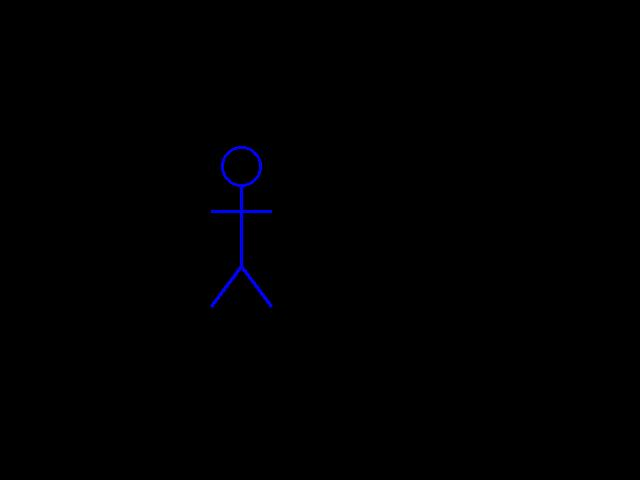
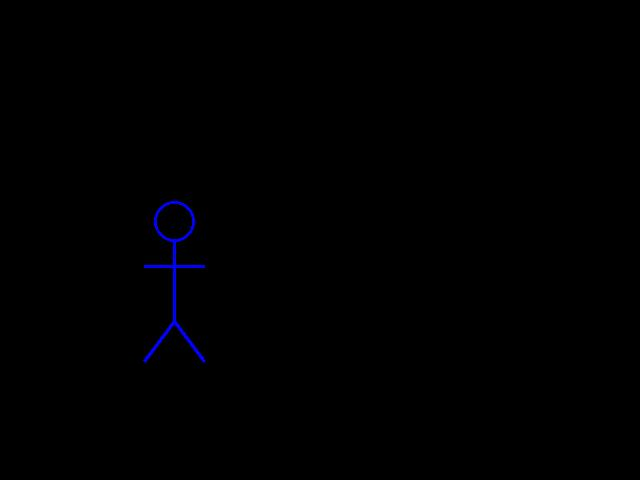
fixed sys.argvs issue with timelapse

Changed region(s): [[0.2188, 0.2812, 0.4375, 0.75], [0.2188, 0.7188, 0.25, 0.75]]

diff --git a/src/lapsepi/__main__.py b/src/lapsepi/__main__.py
@@ -1,21 +1,57 @@
-import time
+from .process.storage import Storage
+from .process.pid_manager import has_pid, delete_pid
+
+# Entry point for lapsepi when run with: python -m lapsepi
+#
+# Responsibilities:
+# - Clean up any stale state from previous (possibly dirty) shutdown
+# - Start the Flask web server
+#
+# Future:
+# - Hook in graceful shutdown (button / signal handling)
+
+storage = Storage()
 
 
-from .capture.camera import Camera
+
+def check_last_shutdown():
+    lockfile_status = None
+    pidfile_status = None
+
+    if storage.check_lockfile("camera_in_use"):
+        storage.delete_lockfile("camera_in_use")
+        lockfile_status = "deleted"
+
+    if has_pid():
+        delete_pid()
+        pidfile_status = "deleted"
+
+    dirty_shutdown = "deleted" in (lockfile_status, pidfile_status)
+
+    bootlog = {
+        "dirty_shutdown" : dirty_shutdown,
+        "lockfile_status" : lockfile_status,
+        "pidfile_status" : pidfile_status,
+    }
+
+    filepath = storage.meta_dir / "bootlog.json"
+
+    storage.write_json(filepath, bootlog)
+
+
+def start_flask():
+    from lapsepi.web.app import app
+    app.run(host="0.0.0.0", port=5002)
+
+
+def shutdown_gracefully():
+    ...
 
 
 def main():
 
-    # check for lockfile
-    # if lockfile, note there was an issue
-    # and clear lockfile
-    # same for pid
-
-    # start webserver (while... until told to stop?)
-
-    # if system tries to shut you down... do it gracefully and log it
-    # guessing it's just going to be the power being pulled as no button..
-    # to which, i guess thee is no real defence.
+    check_last_shutdown()
+    start_flask()
 
 
 if __name__ == "__main__":

diff --git a/src/lapsepi/capture/timelapse.py b/src/lapsepi/capture/timelapse.py
@@ -10,11 +10,9 @@ camera = Camera()
 storage = Storage()
 
 
-def run_timelapse(directory=None, interval=None, runtime=None):
+def run_timelapse(directory, interval=5, runtime=15):
 
-    directory = Path(sys.argv[1])
-    interval = int(sys.argv[2]) if len(sys.argv) > 2 else (interval or 5)
-    runtime = int(sys.argv[3]) if len(sys.argv) > 3 else (runtime or 15)
+    directory = Path(directory)
 
     photos_to_take = int(runtime / interval)
 
@@ -58,6 +56,11 @@ def stop_timelapse():
     pid.delete_pid()
 
 
+
 if __name__ == "__main__":
-    #   run_timelapse()
-    stop_timelapse()
+    # remember this is run as a subprocess, so need to convert sys.argvs
+    directory = sys.argv[1]
+    interval = int(sys.argv[2])
+    runtime = int(sys.argv[3])
+
+    run_timelapse(directory, interval, runtime)

diff --git a/src/lapsepi/process/video_maker.py b/src/lapsepi/process/video_maker.py
@@ -1,3 +1,19 @@
+# This file takes a folder of images from a timelapse session and turn them into an MP4 using ffmpeg.
+#
+# Important bit:
+# We are NOT doing video processing in Python. We are just building a command
+# and asking the system to run ffmpeg (same as if you typed it in Terminal).
+#
+# Flow is basically:
+# 1. Get ordered list of images for a session
+# 2. Write them into a temporary "file_list.txt" (format ffmpeg expects)
+# 3. Build an ffmpeg command
+# 4. Run it via subprocess.run()
+# 5. Clean up temp file
+#
+# So: Python = orchestration
+#     ffmpeg = actual video creation
+
 
 from pathlib import Path
 import subprocess
